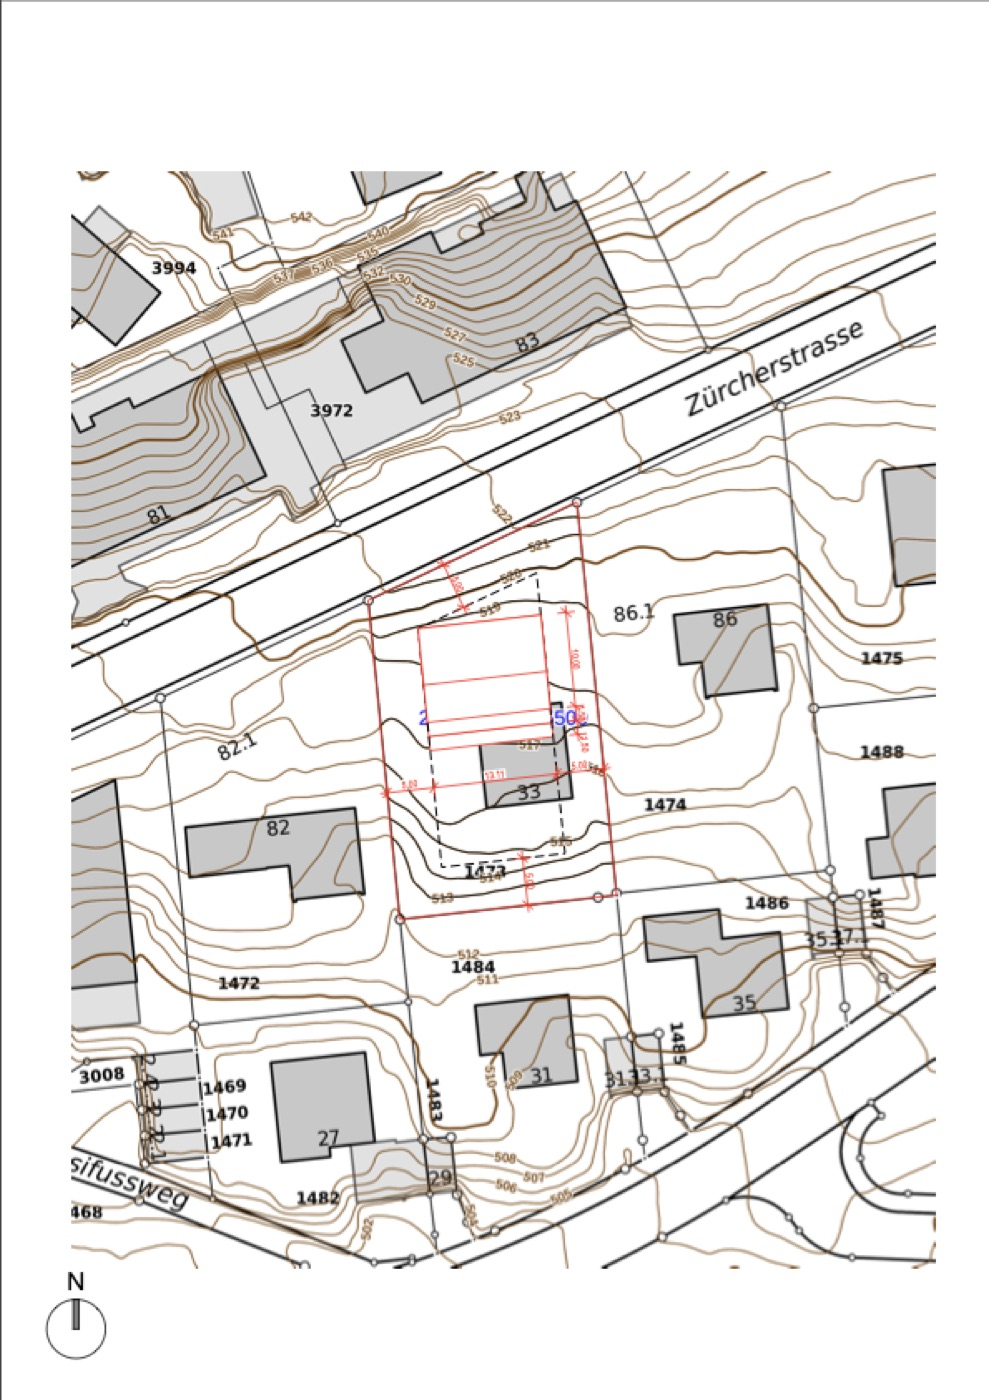
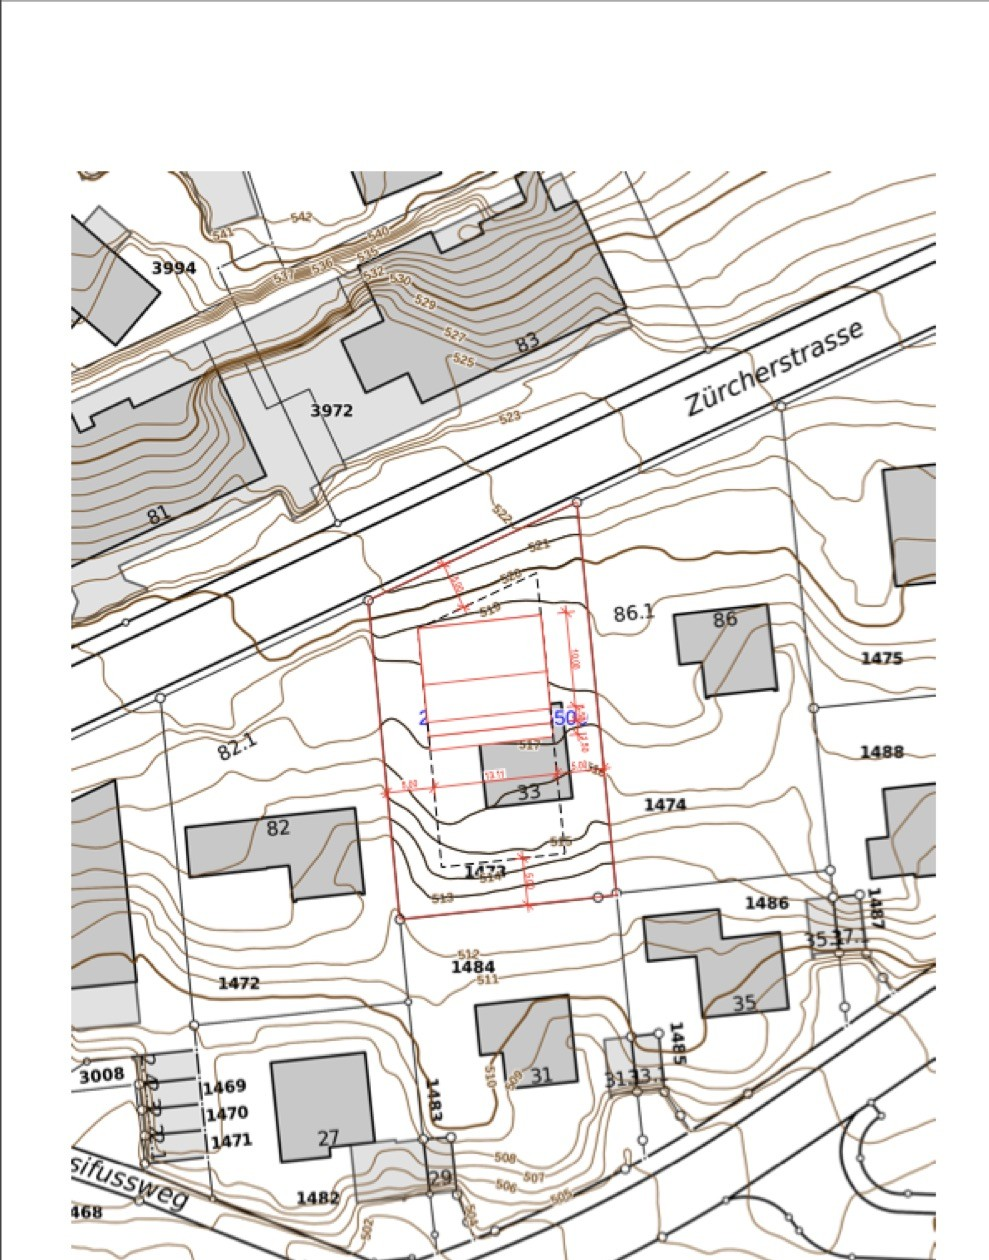
Birmensdorf-Katasterplan: Plankopf unten abgeschnitten (gilt ueberall, wo das Bild verwendet wird); Machbarkeitsstudie-Vorschau: Luftbild Obfelden statt Katasterplan im Hero; Buero-Bild vorbereitet

diff --git a/src/app/vorschau/machbarkeitsstudie-hero/page.tsx b/src/app/vorschau/machbarkeitsstudie-hero/page.tsx
@@ -85,8 +85,8 @@ export default function MachbarkeitsstudieHeroVorschau() {
 
           <div className="relative aspect-[3/4] w-full overflow-hidden bg-mist">
             <Image
-              src="/images/studien/birmensdorf/katasterplan.jpg"
-              alt="Katasterplan eines Grundstücks als Grundlage der Machbarkeitsstudie"
+              src="/images/studien/obfelden/luftbild.jpg"
+              alt="Luftbild eines Grundstücks in Obfelden als Grundlage der Machbarkeitsstudie"
               fill
               priority
               className="object-cover"
